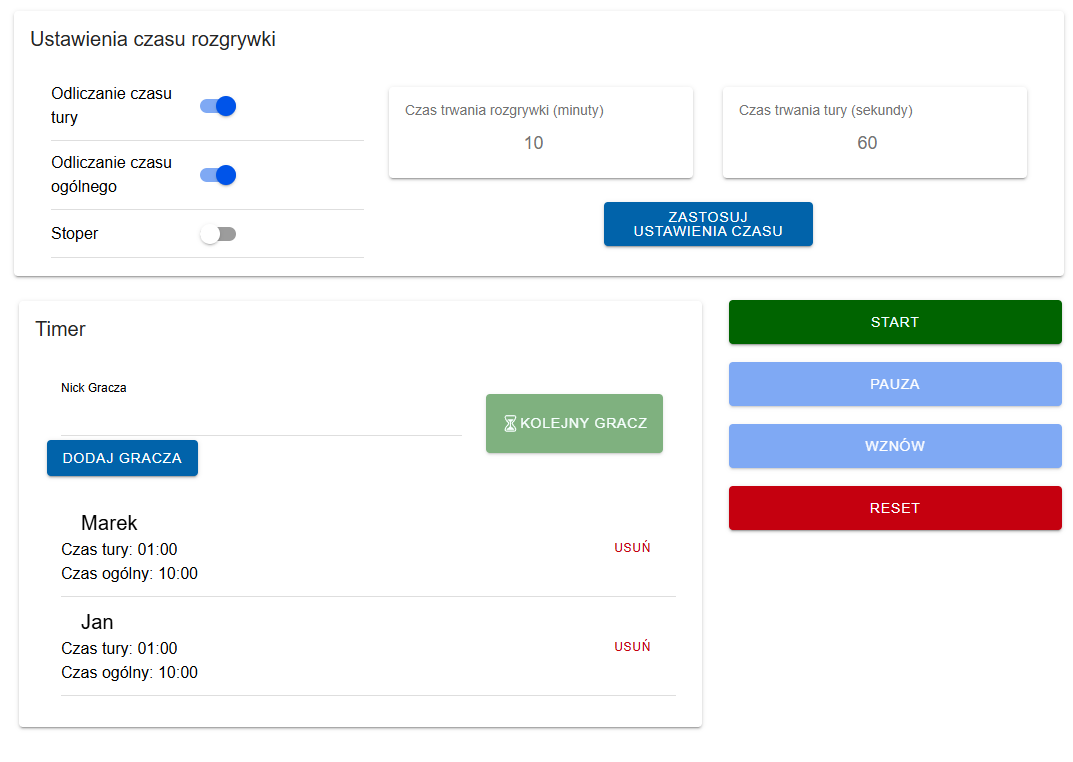
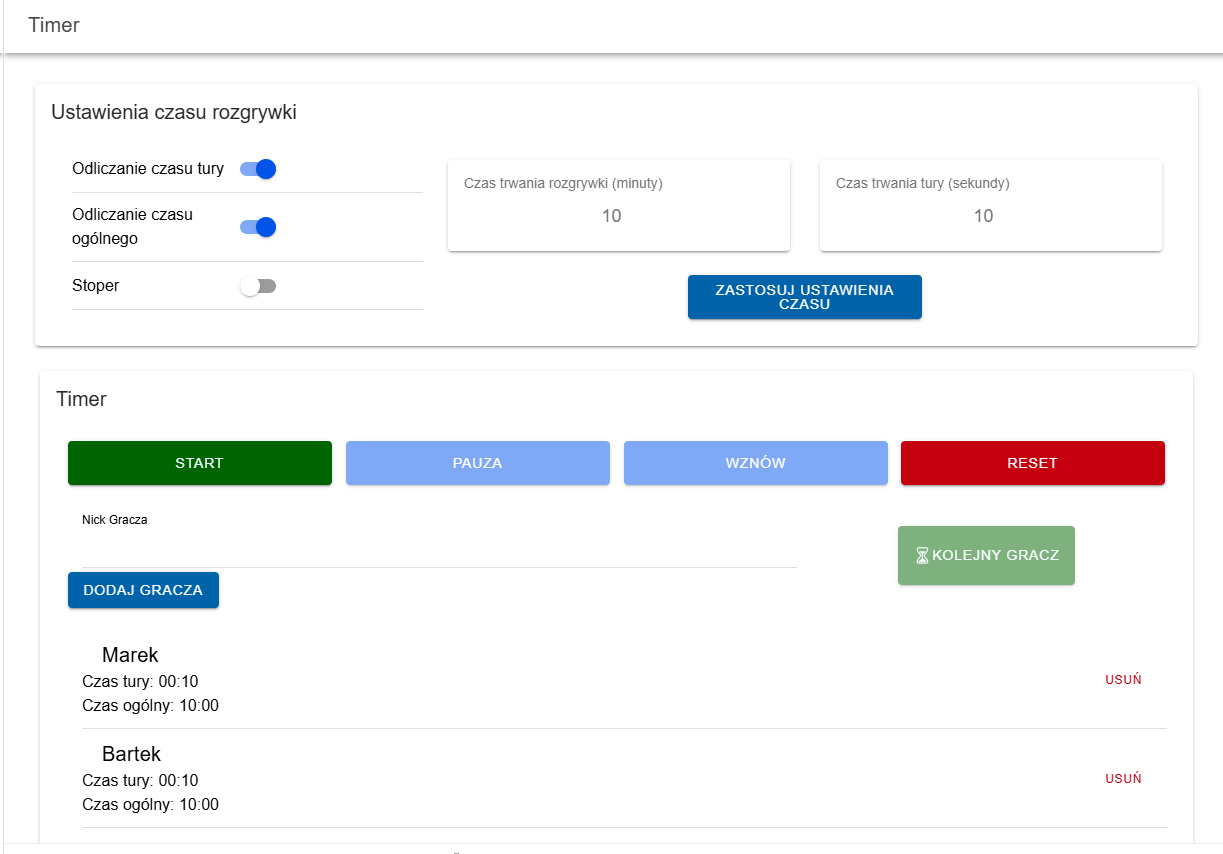
Poprawka przycisków timera

diff --git a/src/app/pages/main/games/timer/timer.page.html b/src/app/pages/main/games/timer/timer.page.html
@@ -69,7 +69,7 @@
     </ion-card>
 
     <ion-row>
-      <ion-col size="8">
+      <ion-col>
         <ion-card>
           <ion-card-header>
             <ion-card-title>
@@ -78,6 +78,21 @@
           </ion-card-header>
           <ion-card-content>
             <ion-grid>
+              <!-- Przyciski sterujące przebiegiem rozgrywki -->
+              <ion-row>
+                <ion-col size="3">
+                  <ion-button expand="block" (click)="startGame()" [disabled]="isGameRunning || isPaused"class="startButton">Start</ion-button>
+                </ion-col>
+                <ion-col size="3">
+                  <ion-button expand="block" (click)="pauseGame()" [disabled]="!isGameRunning || isPaused"class="buttons">Pauza</ion-button>
+                </ion-col>
+                <ion-col size="3">
+                  <ion-button expand="block" (click)="resumeGame()" [disabled]="!isPaused" class="buttons">Wznów</ion-button>
+                </ion-col>
+                <ion-col size="3">
+                  <ion-button expand="block" (click)="resetGame()" color="danger" class="buttons">Reset</ion-button>
+                </ion-col>
+              </ion-row>
               <ion-row>
                 <ion-col size="12" size-md="8">
                   <!-- Formularz dodawania gracza -->
@@ -130,32 +145,7 @@
         </ion-card>
 
       </ion-col>
-      <!-- Przyciski sterujące przebiegiem rozgrywki -->
-      <ion-col size="4">
-        <ion-row>
-          <ion-col>
-            <ion-button expand="block" (click)="startGame()" [disabled]="isGameRunning || isPaused"
-              class="startButton">Start</ion-button>
-          </ion-col>
-        </ion-row>
-        <ion-row>
-          <ion-col>
-            <ion-button expand="block" (click)="pauseGame()" [disabled]="!isGameRunning || isPaused"
-              class="buttons">Pauza</ion-button>
-          </ion-col>
-        </ion-row>
-        <ion-row>
-          <ion-col>
-            <ion-button expand="block" (click)="resumeGame()" [disabled]="!isPaused" class="buttons">Wznów</ion-button>
-          </ion-col>
-        </ion-row>
-        <ion-row>
-          <ion-col>
-            <ion-button expand="block" (click)="resetGame()" color="danger" class="buttons">Reset</ion-button>
-          </ion-col>
-        </ion-row>
-
-      </ion-col>
+      
     </ion-row>
   </ion-grid>
 
